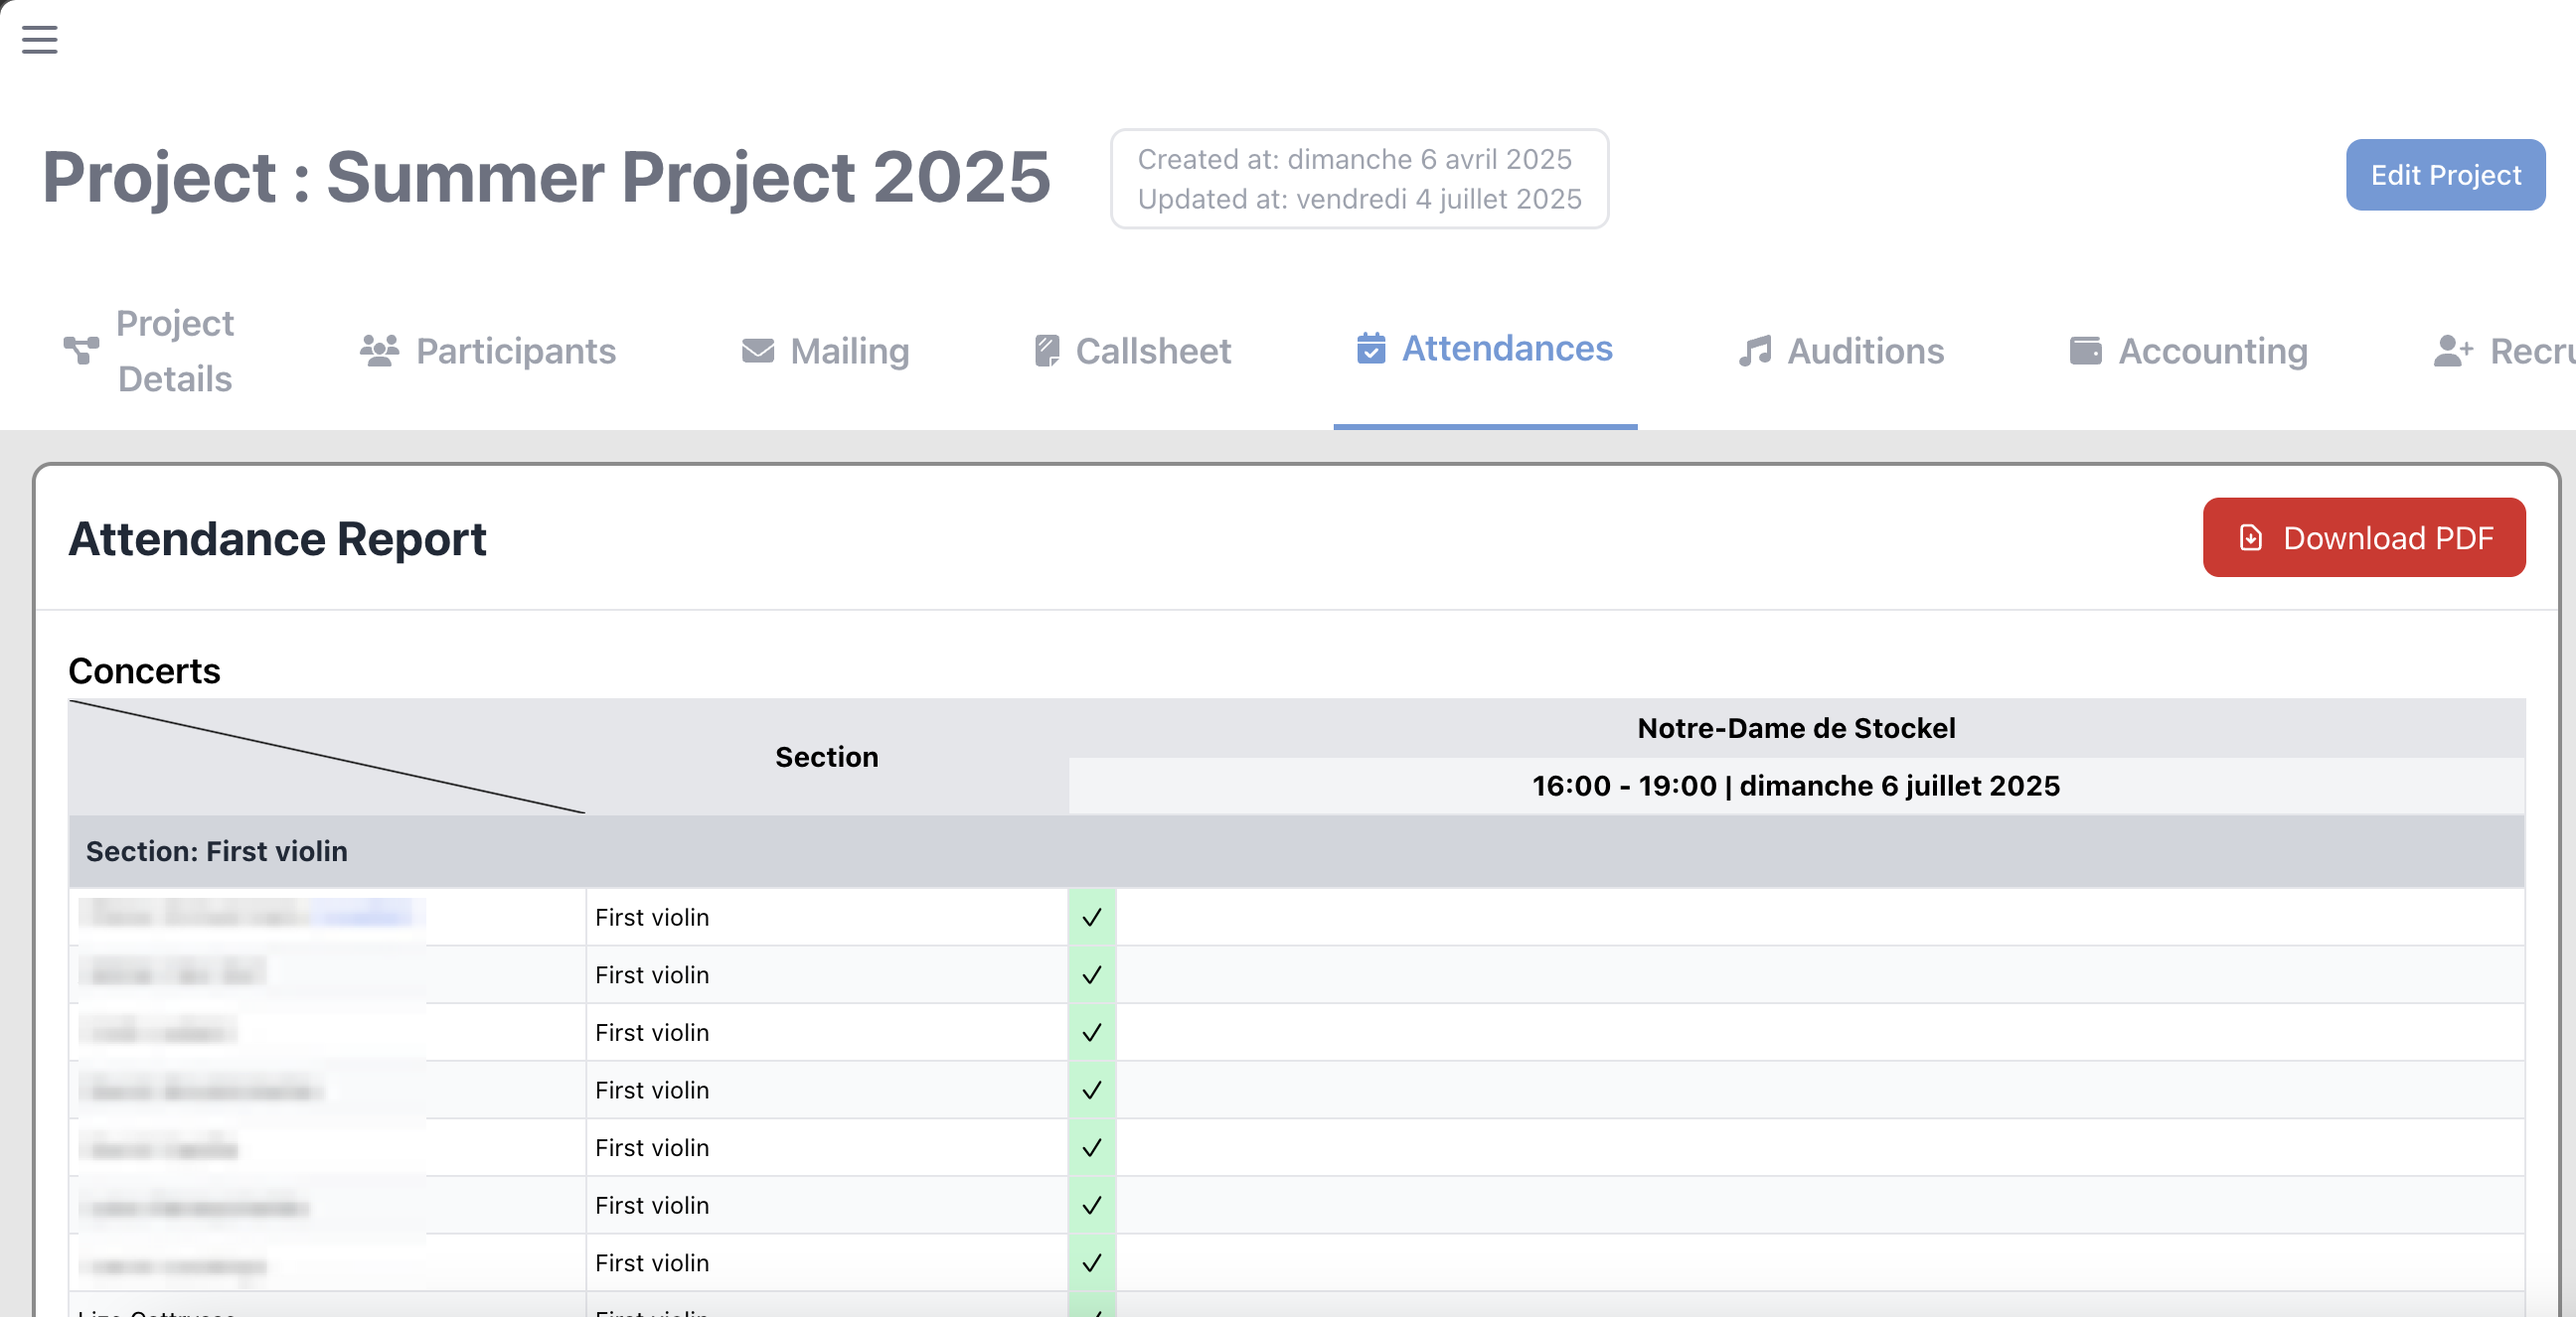
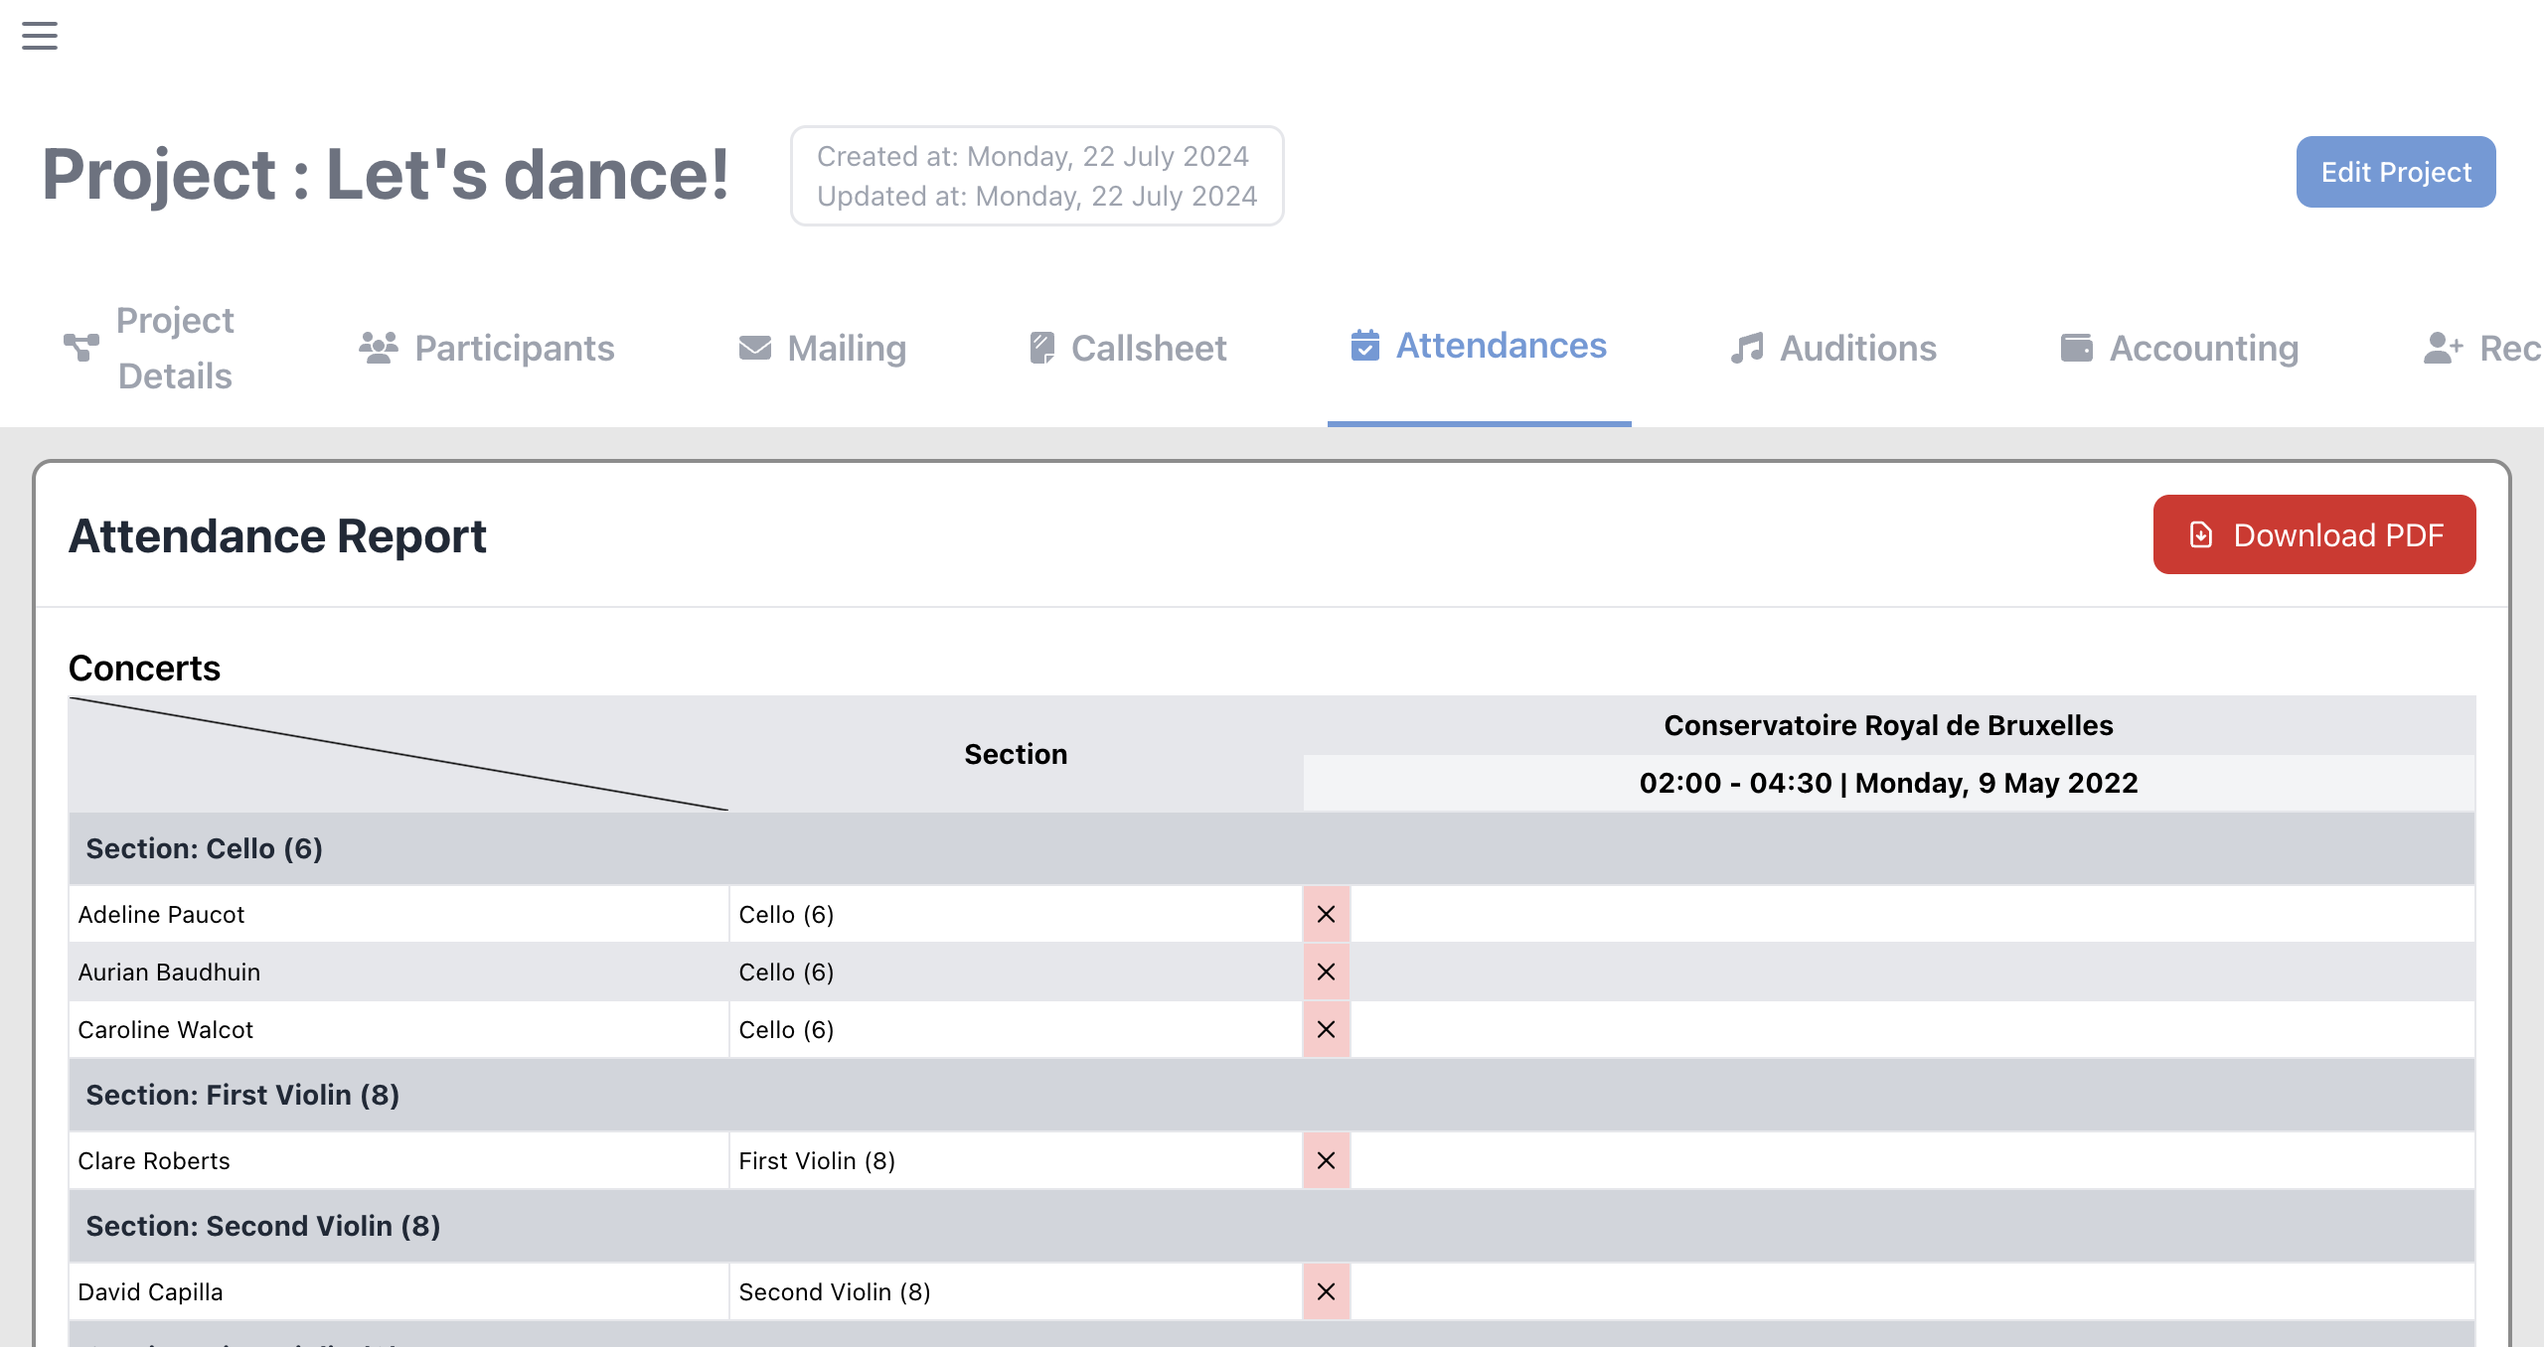
Add detailed documentation and screenshots for callsheet, attendance and files - Naomi

diff --git a/docs/Using the app/pages/project management pages/callsheet_pages.md b/docs/Using the app/pages/project management pages/callsheet_pages.md
@@ -1,17 +1,80 @@
 # Callsheet pages
-## Main callsheet page
-![Main callsheet page](/img/using_the_app/callsheet_main.png)
-This is the callsheet version management page. When a callsheet needs to be updated, the user can choose whether to edit the existing callsheet or create a new version, from scratch or from the previous one. The app can then keep track of which musicians have opened the last version of the callsheet (see the dashboard). This feature allows to make sure the information is correctly circulating in the orchestra, and if necessary (if a musician hasn't gotten the emails or can't open the callsheet for some reason, or missed an update) take actions to rectify the situation. This page shows all the existing versions of the callsheet with some basic features (search a version, create a new one from scratch or from the last version). 
 
-## Callsheet editing page
+*Edited by Naomi*
+
+## What is a Callsheet?
+
+A callsheet is a page shared with all participants of a project. Think of it as the single source of truth for everything a musician needs to know — the program, the events, the scores to download, and the contact information of the project managers. Each participant receives a personal link to the callsheet when their registration is confirmed, and can access it at any time.
+
+---
+
+## Main Callsheet Page
+
+![Main callsheet page](/img/using_the_app/callsheet_main.png)
+
+This is the callsheet version management page. When a callsheet needs to be updated, the user can choose whether to create a new version from scratch or from the previous one. The app keeps track of which musicians have opened the latest version of the callsheet (visible on the project dashboard). This allows you to make sure information is correctly reaching all musicians, and take action if someone hasn't seen the latest update.
+
+This page shows all existing callsheet versions with:
+- **Version number**
+- **Last updated date**
+- An **arrow (→)** to open and edit that version
+
+At the bottom you have two buttons:
+- **"New callsheet"** — creates a brand new blank callsheet
+- **"New callsheet from the last one"** — duplicates the most recently updated version so you don't lose previous content
+
+---
+
+## Callsheet Editing Page
+
 ![Callsheet editing page](/img/using_the_app/callsheet_edit.png)
 ![Callsheet editing page](/img/using_the_app/callsheet_edit2.png)
-This page allows to edit a callsheet. On the right, it shows a preview of the callsheet, and on the left, the editor. The callsheet is has default information on top, and then all the custom information, organized in blocs. The default informations (that cannot be edited) are the program and scores (the scores are downloadable from there) and the calendar. At the bottom of the callsheet, the project managers are also displayed by default. The custom blocs previously had to be edited in raw HTML, but recently the editor has been upgraded to visual editors. They allow to format the text with styles, colors, fonts and all basic text formatting pictures, and to add pictures, videos, files, links, and Google Maps integrations. In the current version, the blocs cannot be moved after creation, but that should change soon.
-At the top of the editor, there is a link to the callsheet itself, see below.
 
-## Callsheet
+When you open or create a callsheet, the screen is split into two parts:
+
+**Left side — the editor** where you build the content
+
+**Right side — the live preview** where you see exactly what participants will see, updating in real time as you type
+
+### The Editor
+
+The editor has two required fields:
+
+**Version** — a label for this version of the callsheet (e.g. 1, v2.1). This field is required — the app will block you from saving if it is empty.
+
+**Contents** — this is where you add all the information. Click **"+ Add content"** to add a new section. Each section has:
+- A **title** — the heading of that section (required — every section must have a title or the app will block saving)
+- A **rich text editor** — where you write the content. The toolbar lets you format with bold, italic, underline, strikethrough, colors, bullet points, numbered lists, alignment, links, images, videos, and more. You can also embed a **Google Maps location** by typing an address — it will show an interactive map on the callsheet.
+
+You can add as many sections as you need, and delete any section using the 🗑 trash icon.
+
+> **Note:** In the current version, content blocks cannot be reordered after creation. Plan your sections in advance before adding them.
+
+At the top of the editor there is a **link to the callsheet** itself — this is the link you can share with participants.
+
+---
+
+## What Participants See (The Callsheet)
+
 ![Callsheet](/img/using_the_app/callsheet1.png)
 ![Callsheet](/img/using_the_app/callsheet2.png)
 ![Callsheet](/img/using_the_app/callsheet3.png)
 ![Callsheet](/img/using_the_app/callsheet4.png)
-This is the callsheet as the musicians see it. It features all key informations needed to participate in the project. It is completely static and one of the only public pages of the whole app. 
+
+This is the callsheet as musicians see it. It is a completely static public page — one of the only public pages of the whole app. It shows:
+
+- A **header banner** with the project name
+- **Program and Scores** — all musical pieces with composer, opus number, and year. Each piece has a button to download the score PDF. If no file has been uploaded yet, it shows "Aucun fichier" (No file)
+- **Events** — all rehearsals and concerts with date, time, location, and type (rehearsal or concert)
+- **Your custom content sections** — all the blocks you added in the editor, in the order you created them
+- **Contact Information** — the project managers with a note inviting participants to reach out for questions
+- A **last updated timestamp** at the very bottom
+
+---
+
+## Tips
+- Always fill in the version field before saving — the app will block you if it is missing
+- Every content section must have a title — untitled sections also block saving
+- Use **"New callsheet from the last one"** when making small updates to avoid rewriting everything
+- You can notify all participants of an update via the **Mailing** tab → **"Send a callsheet notification"**
+- If a piece shows "Aucun fichier", go to the **Files** page to upload the score for that piece

diff --git a/docs/Using the app/pages/files.md b/docs/Using the app/pages/files.md
@@ -1,0 +1,75 @@
+# Files page
+
+*Edited by Naomi*
+
+## What is the Files page?
+
+The Files page is Melomania's built-in file storage system. Think of it like a Google Drive integrated directly into the app. It lets you store and organize files without needing an external service like Dropbox or Google Drive. Files can be linked to a specific project or stored independently for general use.
+
+---
+
+## The Files Page
+
+When you click on **Files** in the left sidebar, you see two tabs at the top right:
+
+- **Projects** — files organized by project
+- **General Files** — files stored independently from any project
+
+---
+
+## Projects tab
+
+![Files projects tab](/img/using_the_app/files1.png)
+
+This shows all projects as clickable cards. Each card displays the project name and the number of pieces it contains. Click on a project to open its file manager.
+
+Inside a project's files you have two tabs:
+
+### Material Management
+
+![Material management](/img/using_the_app/files2.png)
+
+This is where you manage the **score files** (PDFs of sheet music) for each musical piece in the project. Each piece is shown as a card — click on it to upload, replace, or delete its score materials. These are the files musicians download from the callsheet to prepare for rehearsals and concerts.
+
+A piece can have **multiple materials** — for example different annotated versions for different conductors or concertmasters.
+
+> ⚠ If a piece is missing its material, the app will warn you with a yellow banner on the Project Details page.
+
+### File Structure
+
+![File structure](/img/using_the_app/files3.png)
+
+This is a folder-based file explorer where you can organize any other files related to the project — posters, photos, recordings, administrative documents, etc.
+
+From the File Structure you can:
+- **Create folders** to organize your files
+- **Upload files** into any folder (single or multiple files at once)
+- **Preview files** directly in the browser — images, PDFs, audio, and video files can all be previewed without downloading
+- **Download files**
+- **Share a folder** — makes the folder accessible on the project's callsheet so participants can view and download files directly
+- **Revoke sharing** — removes a folder from the callsheet
+- **Rename** files or folders
+- **Delete** files or folders
+
+Right-clicking or using the **⋮ action menu** on any file or folder gives you all available options.
+
+---
+
+## General Files tab
+
+![General files](/img/using_the_app/files4.png)
+
+This tab stores files that are not linked to any specific project. It works the same way as the File Structure tab — you can create folders, upload files, navigate into subfolders, preview and download files, and manage everything the same way.
+
+This is useful for:
+- Administrative documents used across multiple projects
+- Templates (poster templates, email templates, etc.)
+- Any files you want to keep in the system without attaching them to a specific production
+
+---
+
+## Tips
+- Always upload score files (materials) for each piece in a project — the app warns you on the dashboard if any are missing
+- Use **Share folder** in the File Structure tab to make project folders visible on the callsheet for participants — this avoids sending files by email
+- Files can be **previewed directly** in the browser without downloading, which is useful for quickly checking a score or poster
+- The **General Files** tab is a good place for documents you reuse across multiple projects

diff --git a/docs/Using the app/pages/project management pages/attendance.md b/docs/Using the app/pages/project management pages/attendance.md
@@ -1,4 +1,53 @@
 # Attendance page
+
+*Edited by Naomi*
+
+## What is the Attendances tab?
+
+The Attendances tab gives you a complete overview of which participants are present or absent for each event in the project. It is based on the attendance information that participants filled in when they registered. It is split into two tables: one for **Concerts** and one for **Rehearsals**.
+
+---
+
+## The Attendance Report
+
 ![Attendance page](/img/using_the_app/attendance1.png)
 ![Attendance page](/img/using_the_app/attendance2.png)
-This page generates an attendance table based on the registration forms. It generates a different table for the concerts and for the rehearsals, and automatically optimizes the space to accommodate possible comments. Participants are arranged by section, and the sections are displayed in orchestral order. This page also features a button to download a pdf version of the table.
+
+When you click on the **Attendances** tab inside a project, you see the **Attendance Report** page.
+
+At the top right there is a red **"Download PDF"** button that generates and downloads a PDF version of the full report.
+
+### How the table works
+
+This page generates an attendance table based on the registration forms filled in by participants. Participants are arranged by section, and sections are displayed in orchestral order.
+
+The table has:
+- **Rows** — each participant, grouped by section. The section name appears as a bold grey header row before each group. If a participant is a **section leader**, their name is marked with a blue **(Leader)** badge.
+- **Columns** — each event (concert or rehearsal) appears as a column, showing the venue and the date/time
+
+For each participant and each event:
+- **Green cell with ✓** — the participant is present for that event
+- **Red cell with ✗** — the participant is absent for that event
+- A **comment column** next to each event shows any comment the participant left about their attendance
+
+The table automatically optimizes the space to accommodate possible comments.
+
+### Concerts table
+Shows attendance for all concert events, with each concert displayed as a column header showing the venue and date.
+
+### Rehearsals table
+Shows attendance for all rehearsal events, with each rehearsal displayed as a column header showing the venue and date range.
+
+---
+
+## Downloading the PDF
+
+Click the red **"Download PDF"** button at the top right to generate a PDF version of the full attendance report. The PDF is generated directly in the browser — no server needed. If the generation fails, the app will show an error message.
+
+---
+
+## Tips
+- This page is **read-only** — attendance is set by participants when they register, not by the admin
+- Use the **Download PDF** button to get a printable version for rehearsals or concerts
+- On mobile, the tables scroll horizontally so you can see all events
+- If a participant's name appears in multiple sections, it means they registered for multiple sections in the project
